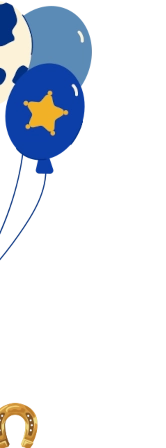
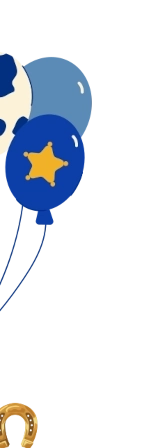
update styles

diff --git a/components/guestModal.js b/components/guestModal.js
@@ -146,7 +146,7 @@ body.modal-open{ overflow:hidden; touch-action:none; }
     <div class="gm-content">
       <form id="guest-form" novalidate>
         <h3 style="margin:4px 0 8px 0;">Confirmación de asistencia</h3>
-        <p style="margin:0 0 12px 0;">Por favor ayúdanos a confirmar tu asistencia antes del 10 de febrero.</p>
+        <p style="margin:0 0 12px 0;">Por favor ayúdanos a confirmar tu asistencia antes del martes 9 de junio.</p>
 
         <div class="field">
           <label>¿Asistirás?</label>
@@ -184,7 +184,7 @@ body.modal-open{ overflow:hidden; touch-action:none; }
 
         <p style="margin:12px 2px 0 2px; opacity:.95;">
           ¡Gracias por confirmar!<br>
-          Ahora sí, a contar los días para la fiesta, risas y mucho baile. 💃🕺
+          Nos vemos ese día. Será un gusto compartir un momento tan especial contigo.
         </p>
 
         <div class="actions">

diff --git a/index.html b/index.html
@@ -88,7 +88,7 @@
 
         stack3: {
           items: [
-          { kind: "html", html: "<div style='height:4vh'></div>" },  
+          { kind: "html", html: "<div style='height:7vh'></div>" },  
           {
               kind: "image",
               src: "./images/main2.webp",